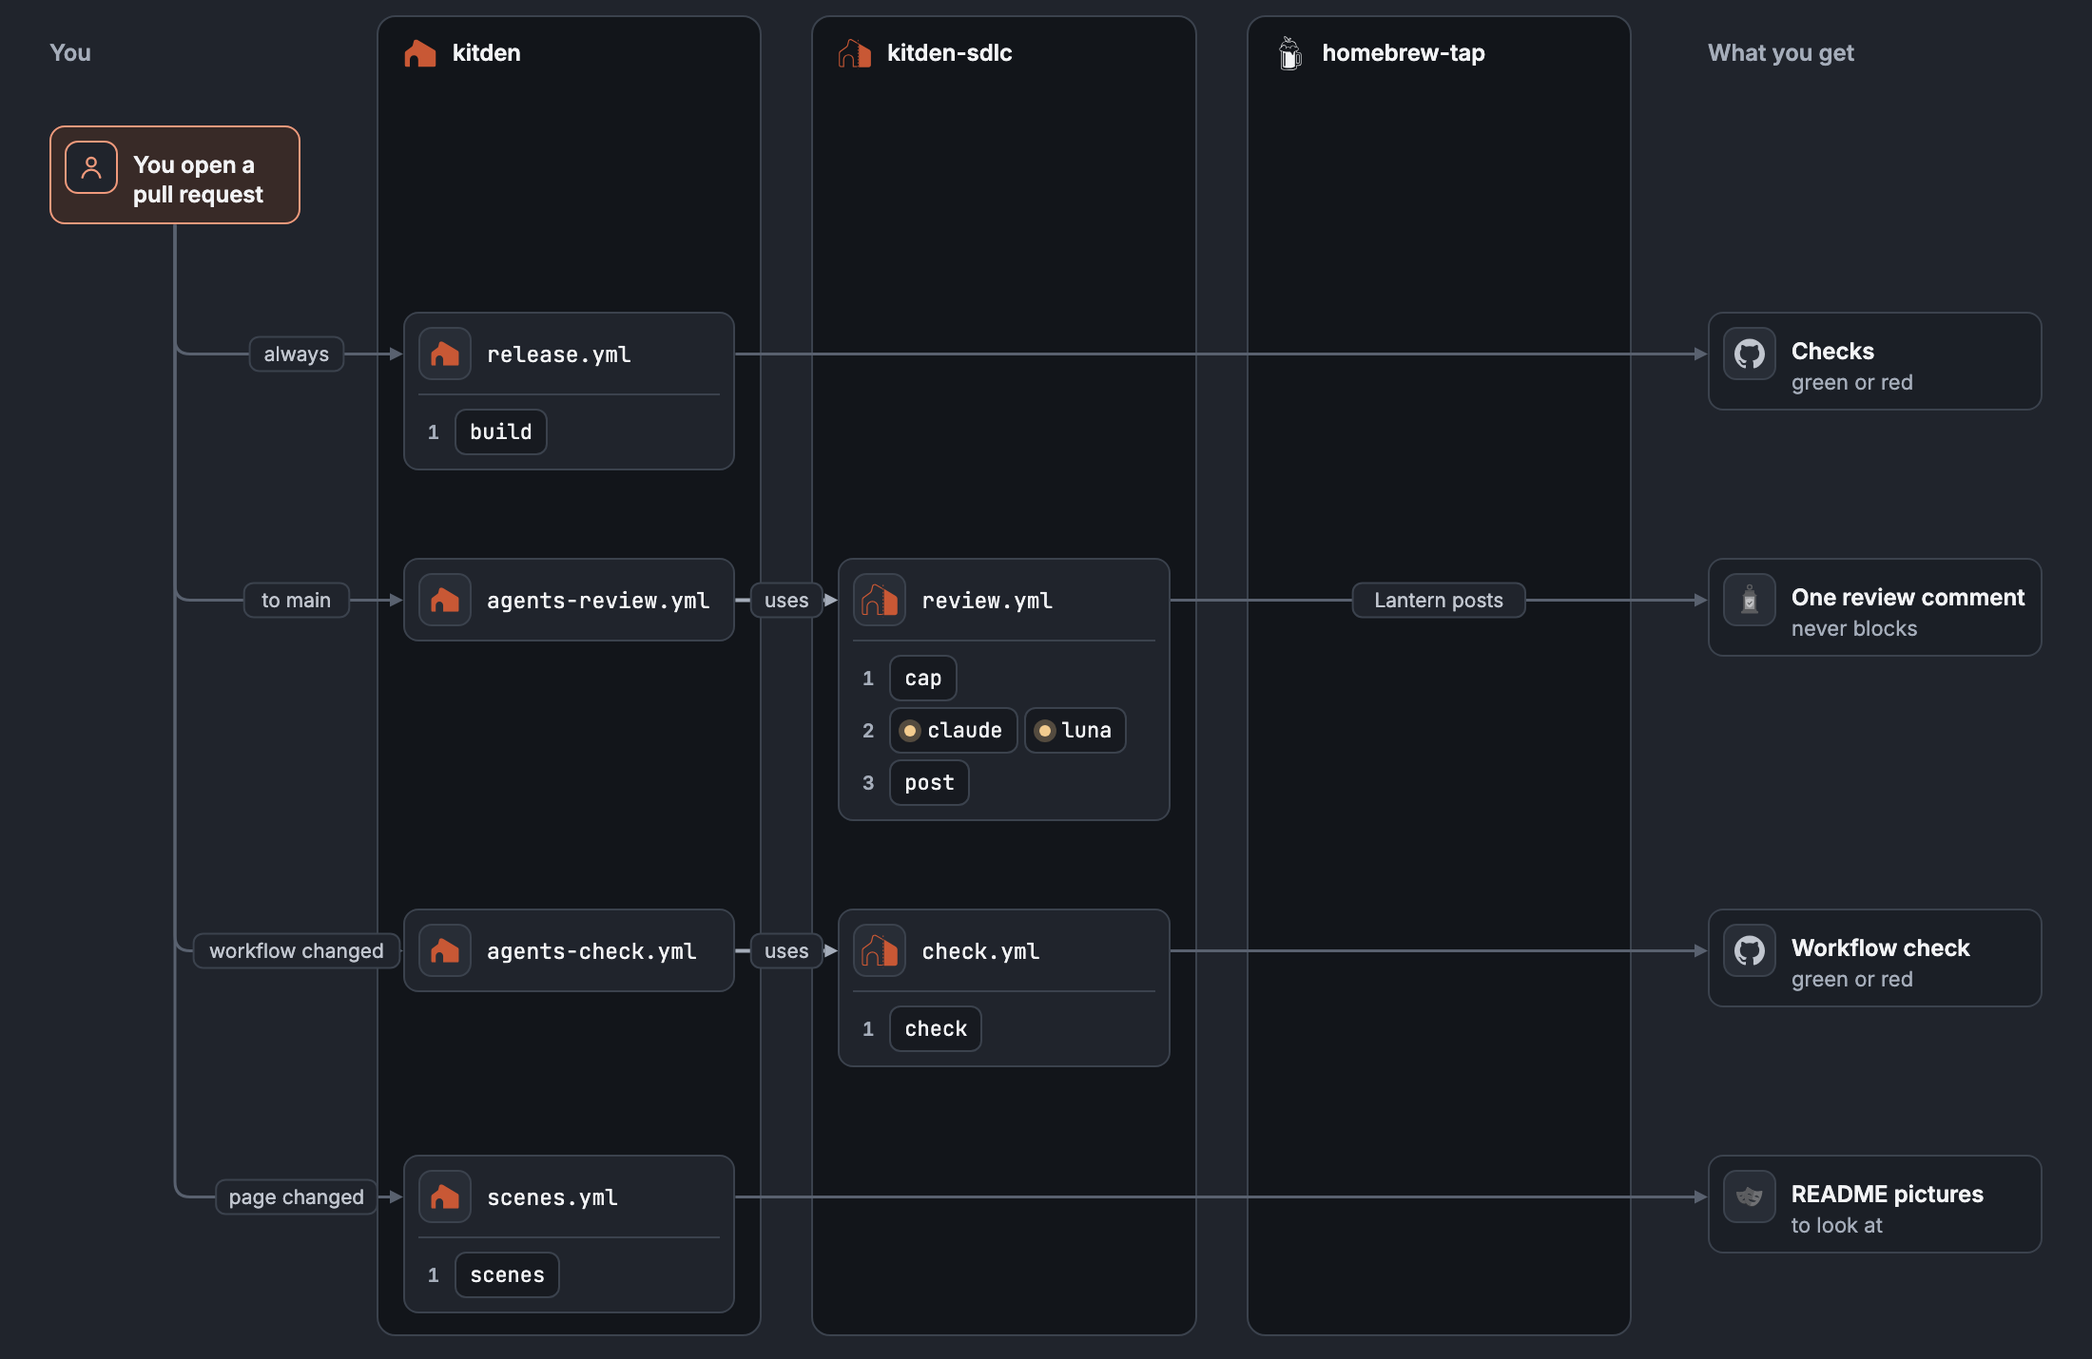
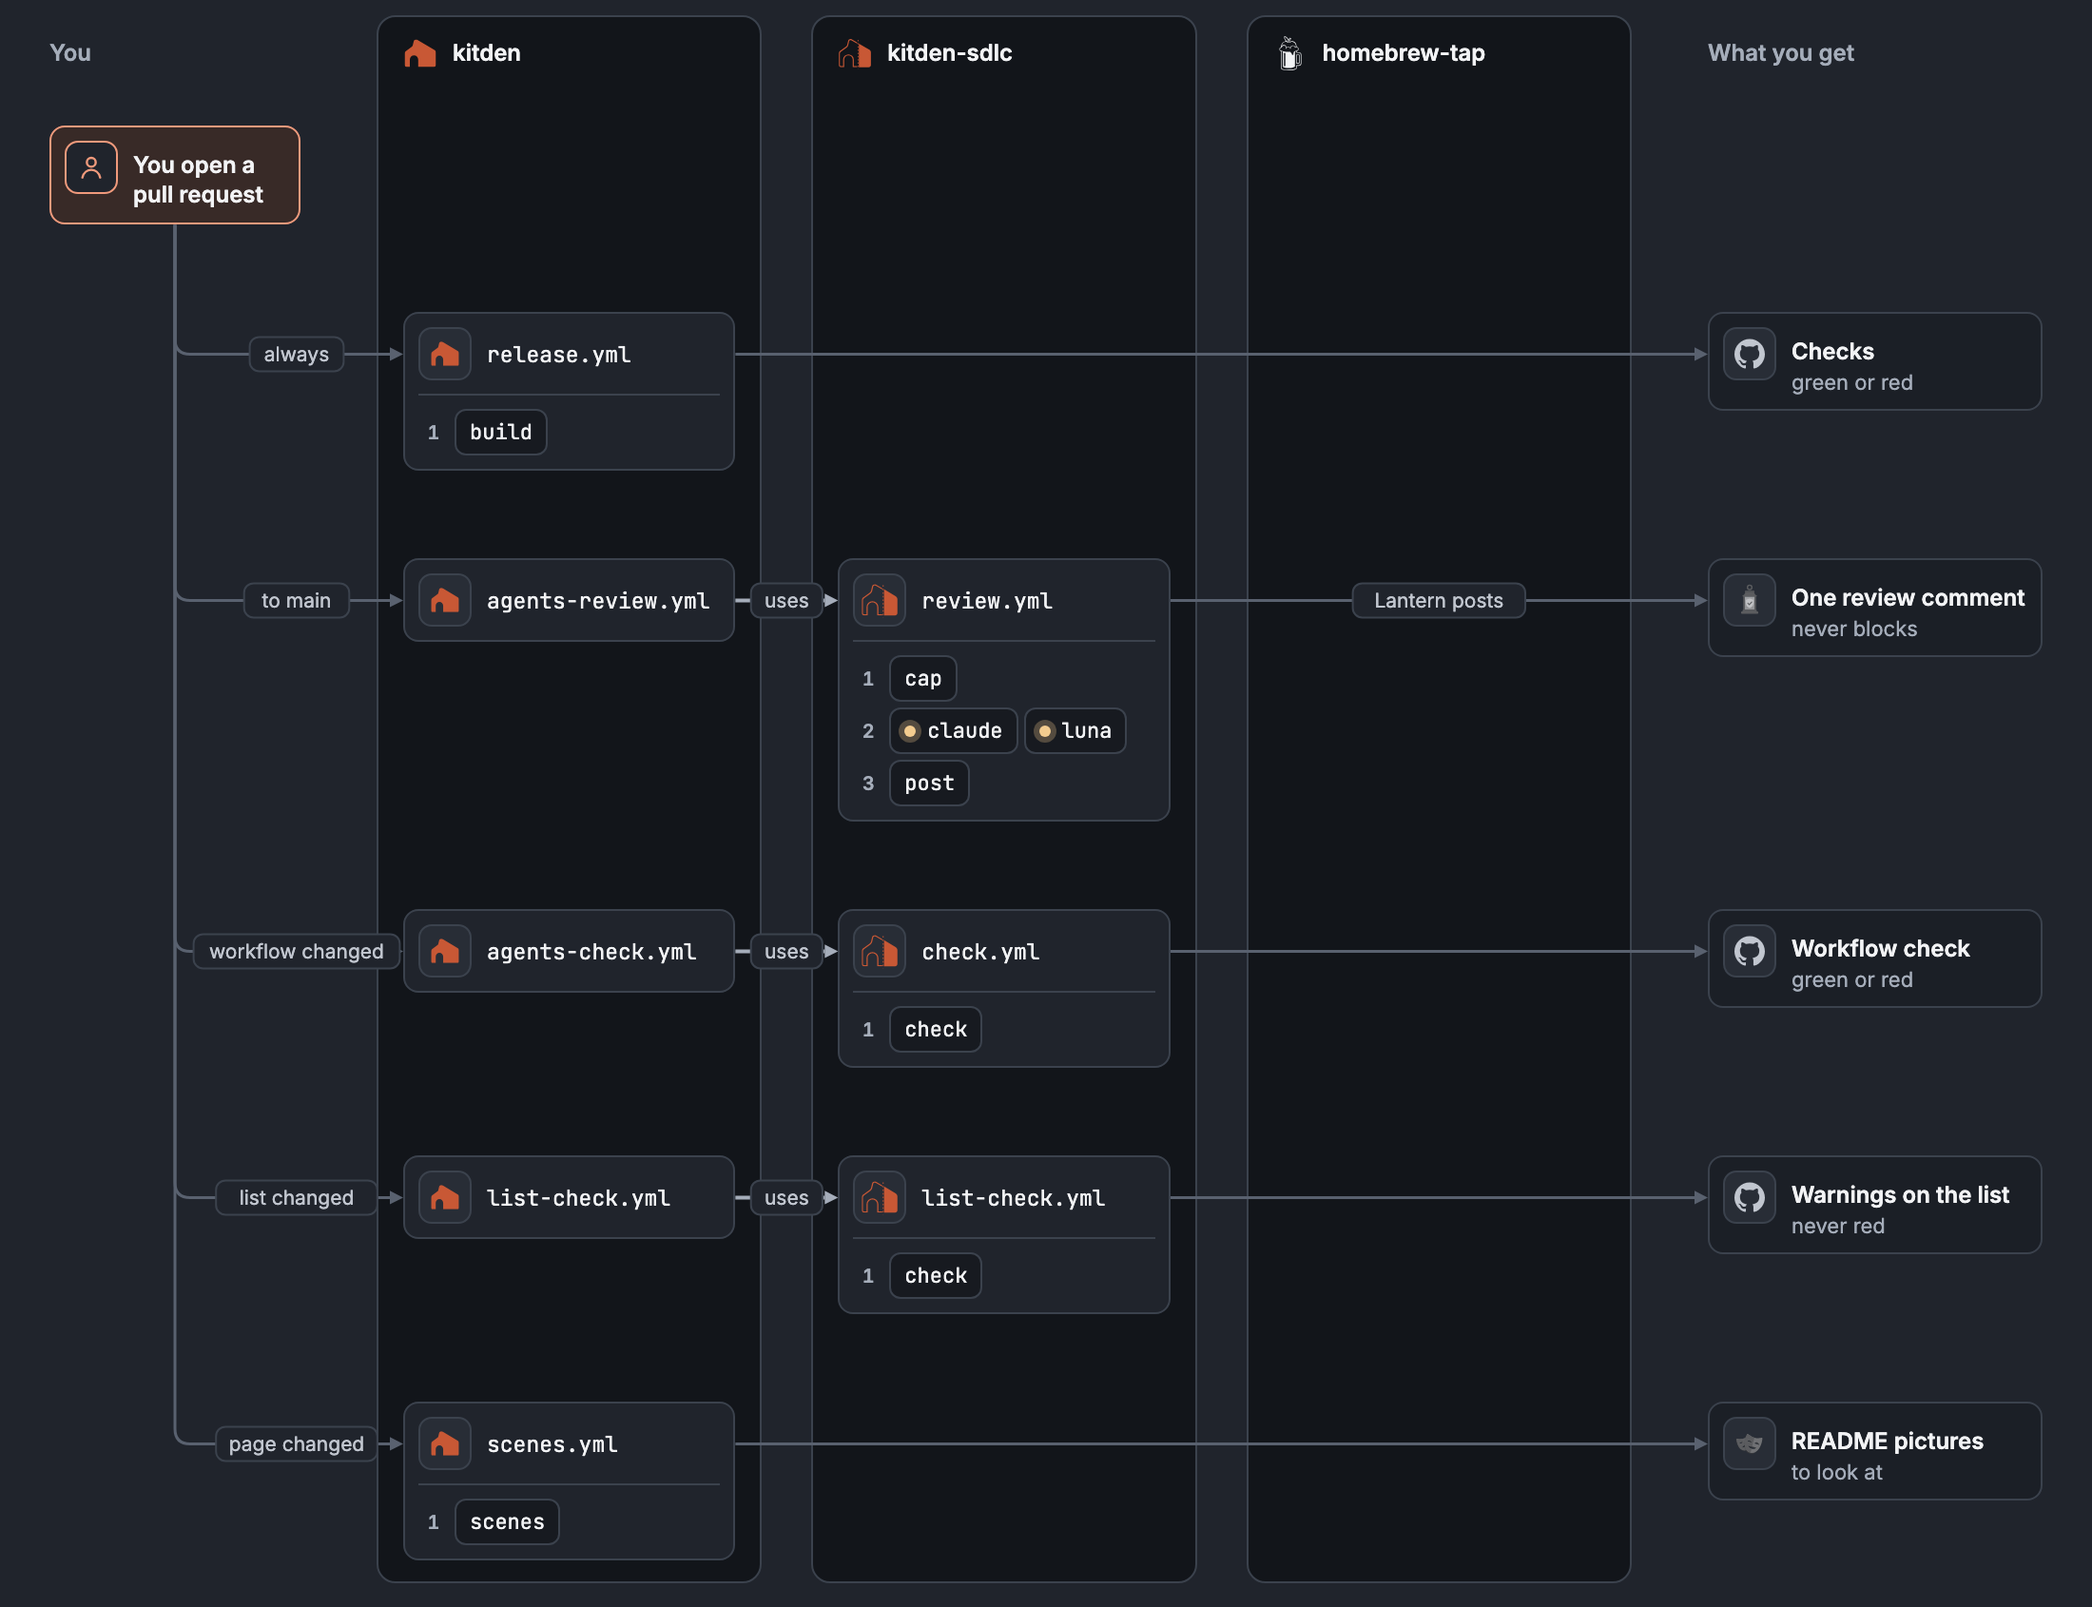
Run the list check as a workflow other repositories can call
list-check.yml copies check.yml: no secret, contents: read, the pull
request checked out without its token, kitden-sdlc at the workflow's own
commit. Harden-Runner records the hosts the pages come from. Both lists
come from git into the runner's temp folder, so a docs/clients.md that is
a link reads as its link text. The script runs from the temp folder:
uv runs a .venv/bin/python it finds in its folder or a folder above it,
even with --no-project.

The README picture, the map and docs/agents.md show it as a script, not
an agent.

diff --git a/docs/map/index.html b/docs/map/index.html
@@ -398,6 +398,11 @@ const WF = [
   what:'Checks the workflow files themselves.',
   calls:['s-check'], stages:[['check']],
   jobs:[{n:'check', tags:['calls kitden-sdlc'], when:'always', steps:['Call `check.yml`']}]},
+ {id:'k-list-check', r:'k', file:'list-check.yml', name:'Check the list against the docs', kind:'caller',
+  trigger:'A pull request that changes `docs/clients.md`',
+  what:'Checks the rows it changes against their doc pages.',
+  calls:['s-list-check'], stages:[['check']],
+  jobs:[{n:'check', tags:['calls kitden-sdlc'], when:'always', steps:['Call `list-check.yml`']}]},
  {id:'k-release-prep', r:'k', file:'release-prep.yml', name:'Release prep', kind:'caller',
   trigger:'You press Run workflow',
   what:'The button that prepares a release.',
@@ -439,6 +444,12 @@ const WF = [
   calledBy:['k-agents-check'], stages:[['check']],
   jobs:[{n:'check', tags:['no model'], when:'always',
     steps:['`zizmor`: security holes','`actionlint`: mistakes','Rule checker: the 11 rules']}]},
+ {id:'s-list-check', r:'s', file:'list-check.yml', name:'Check the list against the docs', kind:'reusable',
+  trigger:'Called by `list-check.yml`',
+  what:'A script, not an agent. It warns when a row’s words are not on its page, and never turns red for that.',
+  calledBy:['k-list-check'], stages:[['check']],
+  jobs:[{n:'check', tags:['no model','no secret','harden'], when:'always',
+    steps:['Record hosts','Get the list before and after','Read the page of each changed row','Warn about missing words']}]},
  {id:'s-release-prep', r:'s', file:'release-prep.yml', name:'Release prep', kind:'reusable',
   trigger:'Called by `release-prep.yml`',
   what:'Claude drafts. Scripts check. Beacon opens the pull request.',
@@ -581,11 +592,13 @@ const STORIES = {
       [{id:'ci', wf:'k-release', stages:[['build']]}, {id:'t1', kind:'thing', ic:'github', t:'Checks', sub:'green or red'}],
       [{wf:'k-agents-review'}, {wf:'s-review'}, {id:'t2', kind:'thing', ic:'lantern', t:'One review comment', sub:'never blocks'}],
       [{wf:'k-agents-check'}, {wf:'s-check'}, {id:'t3', kind:'thing', ic:'github', t:'Workflow check', sub:'green or red'}],
+      [{wf:'k-list-check'}, {wf:'s-list-check'}, {id:'t5', kind:'thing', ic:'github', t:'Warnings on the list', sub:'never red'}],
       [{wf:'k-scenes'}, {id:'t4', kind:'thing', ic:'playwright', t:'README pictures', sub:'to look at'}]
     ],
     edges:[['you','ci','always','l'],['ci','t1','','h'],
       ['you','k-agents-review','to main','l'],['k-agents-review','s-review','uses','h'],['s-review','t2','Lantern posts','h'],
       ['you','k-agents-check','workflow changed','l'],['k-agents-check','s-check','uses','h'],['s-check','t3','','h'],
+      ['you','k-list-check','list changed','l'],['k-list-check','s-list-check','uses','h'],['s-list-check','t5','','h'],
       ['you','k-scenes','page changed','l'],['k-scenes','t4','','h']]},
   rel:{note:'If dependencies changed, publish.yml leaves the tap alone and brew bump opens the PR the next day.',
     rows:[
@@ -792,10 +805,10 @@ const USED = {
   'Claude Sonnet 5.5':['s-review','s-watch','s-release-prep'], 'GPT-6 Luna':['s-review'],
   'ruff':['k-release','s-checks'], 'pyright':['k-release'], 'pytest':['k-release','k-latest-deps','s-checks','s-release-prep'], 'Node':['k-release'],
   'zizmor':['k-release','s-check','s-checks'], 'actionlint':['s-check','s-checks'], 'pip-audit':['k-release'],
-  'GitHub Actions':'All 19 workflows', 'uv':'Every workflow in kitden and kitden-sdlc', 'Python':'Every workflow in kitden and kitden-sdlc',
+  'GitHub Actions':'All 21 workflows', 'uv':'Every workflow in kitden and kitden-sdlc', 'Python':'Every workflow in kitden and kitden-sdlc',
   'PyPI':['k-release','s-publish','t-autobump'], 'GitHub Releases':['k-release'], 'MCP Registry':['s-publish'],
   'Homebrew':['s-publish','t-autobump','t-tests','t-auto-pull','t-publish'], 'Playwright':['k-scenes','s-release-prep'], 'ffmpeg':['k-scenes','s-release-prep'],
-  'Harden-Runner':['s-review','s-watch','s-release-prep'], 'Langfuse':['s-watch'],
+  'Harden-Runner':['s-review','s-watch','s-release-prep','s-list-check'], 'Langfuse':['s-watch'],
   'Claude Code':['s-watch'], 'Codex':['s-watch'], 'Cursor':['s-watch']
 };
 const usedIn = n => { const u = USED[n]; return '<span class="tip" role="tooltip"><span class="cap">Used in</span>' + (typeof u === 'string' ? '<span class="tl1">' + esc(u) + '</span>'

diff --git a/tests/test_workflows.py b/tests/test_workflows.py
@@ -3,7 +3,7 @@ from pathlib import Path
 
 import yaml
 
-from check_agent_workflows import HOSTS_ACTION, _is_model_step, check_workflow
+from check_agent_workflows import HOSTS_ACTION, PINNED, _is_model_step, check_workflow
 
 ROOT = Path(__file__).resolve().parent.parent
 
@@ -515,3 +515,112 @@ def test_a_planted_python_is_looked_for_in_every_job_that_could_hold_one():
         if file == "release-prep.yml":
             needs = doc["jobs"][job]["needs"]
             assert "guard" in ([needs] if isinstance(needs, str) else needs), job
+
+
+# --- list-check.yml: Kitden calls it on every pull request that changes docs/clients.md, forks
+# --- included. The pull request's files are untrusted; no model runs and no secret is near.
+
+LIST_CHECK = WORKFLOWS / "list-check.yml"
+LIST_STEP = "Check the changed rows against their pages"
+
+
+def _uses(doc: dict) -> list[str]:
+    return [str(s["uses"]) for job in doc["jobs"].values() for s in job["steps"] if "uses" in s]
+
+
+def _list_check_problems(text: str) -> list[str]:
+    doc = yaml.safe_load(text)
+    problems = []
+    if doc.get("on", doc.get(True)) != {"workflow_call": None}:
+        problems.append("it runs on something other than workflow_call, or takes inputs")
+    if doc.get("permissions") != {}:
+        problems.append("the top permissions are not {}")
+    if "secrets" in text:
+        problems.append("the file names secrets")
+    (job,) = doc["jobs"].values()
+    if job.get("permissions") != {"contents": "read"}:
+        problems.append("the job may do more than read the code")
+    if job.get("timeout-minutes") != 10:
+        problems.append("the job's timeout is not 10 minutes")
+    if job.get("continue-on-error") is not None:
+        problems.append("the job hides its own failures")
+    steps = job["steps"]
+    first = steps[0]
+    if not str(first.get("uses", "")).startswith(HOSTS_ACTION + "@") or first.get("with") != {
+        "egress-policy": "audit"
+    }:
+        problems.append("the first step does not record the hosts")
+    if not all(PINNED.match(uses) for uses in _uses(doc)):
+        problems.append("an action is not pinned to a full SHA")
+    checkouts = [s for s in steps if "actions/checkout" in str(s.get("uses", ""))]
+    if len(checkouts) != 2 or any(
+        (s.get("with") or {}).get("persist-credentials") is not False for s in checkouts
+    ):
+        problems.append("a checkout keeps the token")
+    if checkouts and (checkouts[-1].get("with") or {}).get("ref") != "${{ job.workflow_sha }}":
+        problems.append("kitden-sdlc is not checked out at this workflow's own commit")
+    if not _before(doc, "check", "Clear the tools folder", "Check out kitden-sdlc"):
+        problems.append("the tools folder is not cleared before kitden-sdlc is checked out")
+    runs = [str(s["run"]) for s in steps if "run" in s]
+    if any("${{" in run for run in runs):
+        problems.append("an expression sits inside run")
+    if not any(s.get("env", {}).get("BASE_REF") == "${{ github.base_ref }}" for s in steps):
+        problems.append("the base branch is not passed through env")
+    step = _step(doc, "check", LIST_STEP)
+    if step is None:
+        return [*problems, "the script step is missing"]
+    run = " ".join(str(step["run"]).split())
+    if "uv run --no-project --no-config" not in run or "list_sources.py" not in run:
+        problems.append("the script is not run with --no-project --no-config")
+    # uv runs a .venv/bin/python it finds in its folder or any folder above it, and the pull
+    # request can bring one: the script runs from the runner's temp folder instead.
+    if step.get("working-directory") != "${{ runner.temp }}":
+        problems.append("the script runs inside the pull request's checkout")
+    return problems
+
+
+def test_the_list_check_runs_kitden_sdlcs_script_and_nothing_the_pull_request_brings():
+    text = LIST_CHECK.read_text()
+    assert _list_check_problems(text) == []
+    for guard, swap in (
+        ("  workflow_call:\n", "  workflow_call:\n  pull_request_target:\n"),
+        ("permissions: {}\n", "permissions: write-all\n"),
+        ("      contents: read", "      contents: write"),
+        ("timeout-minutes: 10", "timeout-minutes: 30"),
+        ("egress-policy: audit", "egress-policy: none"),
+        ("persist-credentials: false", "persist-credentials: true"),
+        ("ref: ${{ job.workflow_sha }}", "ref: main"),
+        ("- name: Clear the tools folder", "- name: Something else"),
+        ("BASE_REF: ${{ github.base_ref }}", "BASE_REF: main"),
+        ("--no-project", ""),
+        ("--no-config", ""),
+        ("working-directory: ${{ runner.temp }}", "working-directory: ."),
+    ):
+        # The flags are cut where the step names them, not in the comment above it.
+        cut = _cut_last(text, guard) if guard.startswith("--") else text.replace(guard, swap, 1)
+        assert cut != text, guard
+        assert _list_check_problems(cut) != [], guard
+    assert _list_check_problems(text + "# secrets.GITHUB_TOKEN\n") != []
+    unpinned = re.sub(r"(harden-runner@)[0-9a-f]{40}", r"\1v2", text)
+    assert unpinned != text and _list_check_problems(unpinned) != []
+    late = text.replace('"$BASE_REF"', '"${{ github.base_ref }}"', 1)
+    assert late != text and _list_check_problems(late) != []
+
+
+def test_the_list_check_uses_the_same_pins_as_the_workflows_it_copies():
+    doc = yaml.safe_load(LIST_CHECK.read_text())
+    known = set(_uses(yaml.safe_load((WORKFLOWS / "check.yml").read_text())))
+    known |= set(_uses(yaml.safe_load((WORKFLOWS / "watch.yml").read_text())))
+    assert set(_uses(doc)) <= known
+    uv = next(s for s in doc["jobs"]["check"]["steps"] if "setup-uv" in str(s.get("uses")))
+    check = yaml.safe_load((WORKFLOWS / "check.yml").read_text())
+    uv_check = next(s for s in check["jobs"]["check"]["steps"] if "setup-uv" in str(s.get("uses")))
+    assert uv["with"] == uv_check["with"] == {"version": "0.10.10", "enable-cache": False}
+
+
+def test_the_list_check_cannot_turn_red_for_a_page():
+    # The script always exits 0; nothing in the workflow may make a warning a failure.
+    doc = yaml.safe_load(LIST_CHECK.read_text())
+    run = " ".join(str(_step(doc, "check", LIST_STEP)["run"]).split())
+    assert "||" not in run and "exit" not in run
+    assert check_workflow(doc, "list-check.yml") == []

diff --git a/docs/agents.md b/docs/agents.md
@@ -10,6 +10,7 @@ do and its limits. Every workflow that runs an agent follows [RULES.md](../RULES
 | `claude` reviewer | a pull request opens or changes | Claude Sonnet or Opus, picked by [the review tasks](../evals/README.md) | read the checkout, write findings | see below | `AGENTS_ENABLED` and `REVIEW_LIVE`, in Kitden |
 | `luna` reviewer | the same | GPT-6 Luna | read in a sandbox with no network, answer with findings | see below | the same |
 | workflow check | a pull request changes `.github/workflows/` | none | run zizmor, actionlint and the rule checker | read only | none |
+| list check | a Kitden pull request changes `docs/clients.md` | none: a script, not an agent | read the doc page of each row it adds or changes, and warn | read only, no secret; 10 minutes; at most 20 pages and 3 minutes of reading; never turns red for a page | none |
 | the desk | every day at 06:41 UTC, or by hand | none | count reviews, read Kitden's facts, commit `numbers.md`, `numbers.json` and `desk.json` to the `numbers` branch; a second job shows `desk.json` as the issue "Kitden desk" in Kitden, as Lantern | no model, no pull request code; 10 and 5 minutes, one run at a time | `AGENTS_ENABLED`, in kitden-sdlc, for the issue only: the numbers update without it |
 | client watcher | every day at 05:17 UTC, or by hand | Claude Sonnet 5.5 at effort medium, on `ANTHROPIC_API_KEY` | read client release notes and docs; a job without the model opens issues in Kitden as Lantern and commits the memory to the `watch` branch | 15 minutes per job, 60 model calls, one run at a time | `AGENTS_ENABLED` and `WATCH_LIVE`, in kitden-sdlc |
 | release prep | the owner runs it by hand in Kitden | Claude, the model Kitden's caller names | read the checkout and the release context; write the notes, the README, the guide, the policy files and the plugin README to one output folder; scripts check them, and the model gets one pass to fix what they find; jobs without the model set the version, record the README pictures and open the release pull request as the release app (a draft when a problem is left) | two agent jobs with the same read-only tools: 25 minutes and 60 turns, then 10 minutes and 15 turns; one run at a time; it does not start while a release pull request is open or three bot pull requests wait, and stops when the branch `prepare-vX.Y.Z` exists | `AGENTS_ENABLED`, in Kitden; started by hand |
@@ -101,6 +102,12 @@ request. The reviewers only comment: they never approve and never block
 On Kitden, `agents-review.yml` calls [review.yml](../.github/workflows/review.yml), and the
 Lantern app posts the "Agent review" comment. `agents-check.yml` calls
 [check.yml](../.github/workflows/check.yml).
+
+Kitden's `list-check.yml` calls [list-check.yml](../.github/workflows/list-check.yml) when a pull
+request changes `docs/clients.md`, forks too. It is a script, not an agent:
+[list_sources.py](../scripts/list_sources.py) reads the doc page of each row the pull request adds
+or changes, and warns when an exact word of the row is not on its page. It holds no secret and
+only reads; nothing from the pull request runs. A warning never turns the check red.
 
 ## The client watcher
 

diff --git a/README.md b/README.md
@@ -33,7 +33,7 @@ next thing starts; a dot on a job means a model runs in it.
 
 <picture>
   <source media="(prefers-color-scheme: dark)" srcset="docs/images/map-pull-request-dark.png">
-  <img src="docs/images/map-pull-request-light.png" width="820" alt="You open a pull request in Kitden. Always: release.yml runs the checks. To main: agents-review.yml uses review.yml, where Claude and Luna read the change and Lantern posts one review comment that never blocks. If a workflow changed: agents-check.yml uses check.yml. If the page changed: scenes.yml records the README pictures.">
+  <img src="docs/images/map-pull-request-light.png" width="820" alt="You open a pull request in Kitden. Always: release.yml runs the checks. To main: agents-review.yml uses review.yml, where Claude and Luna read the change and Lantern posts one review comment that never blocks. If a workflow changed: agents-check.yml uses check.yml. If the list of client facts changed: list-check.yml uses list-check.yml, a script, not an agent, which warns when a changed row's words are not on its doc page and never turns red for that. If the page changed: scenes.yml records the README pictures.">
 </picture>
 
 ### A release
